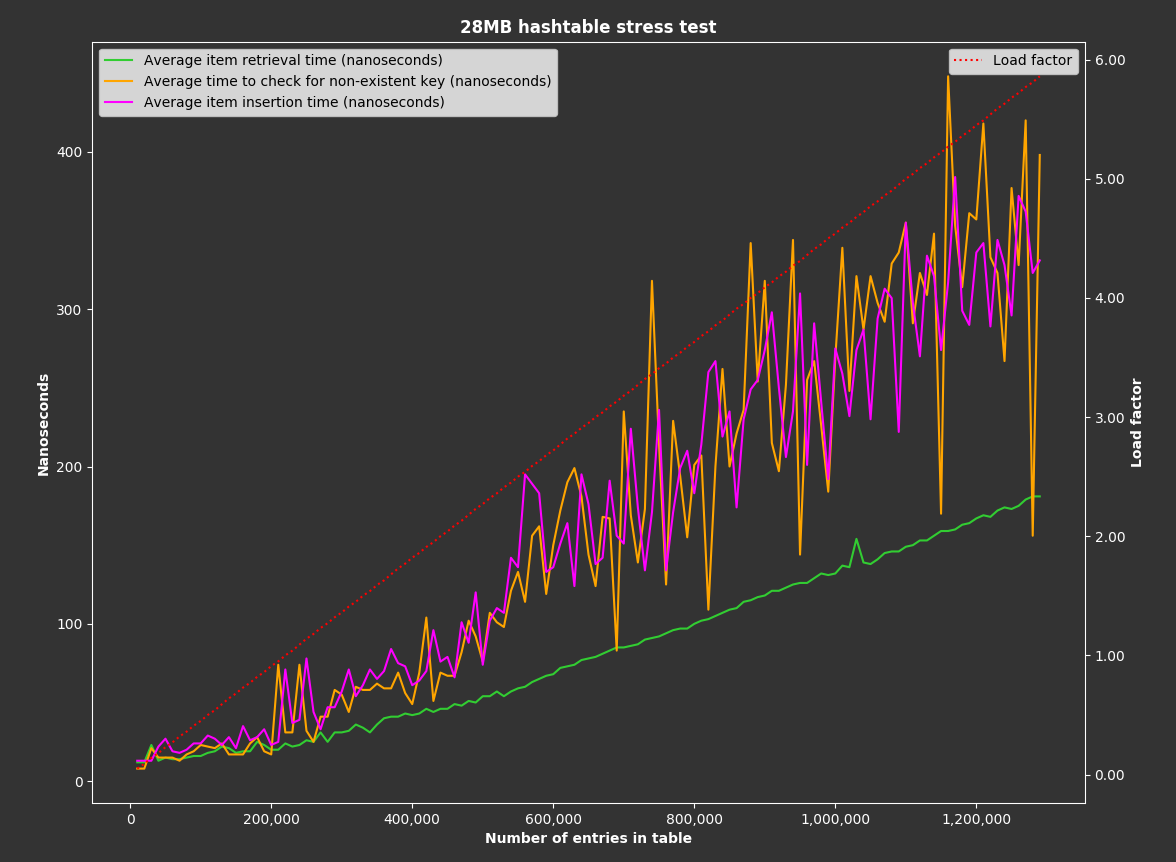
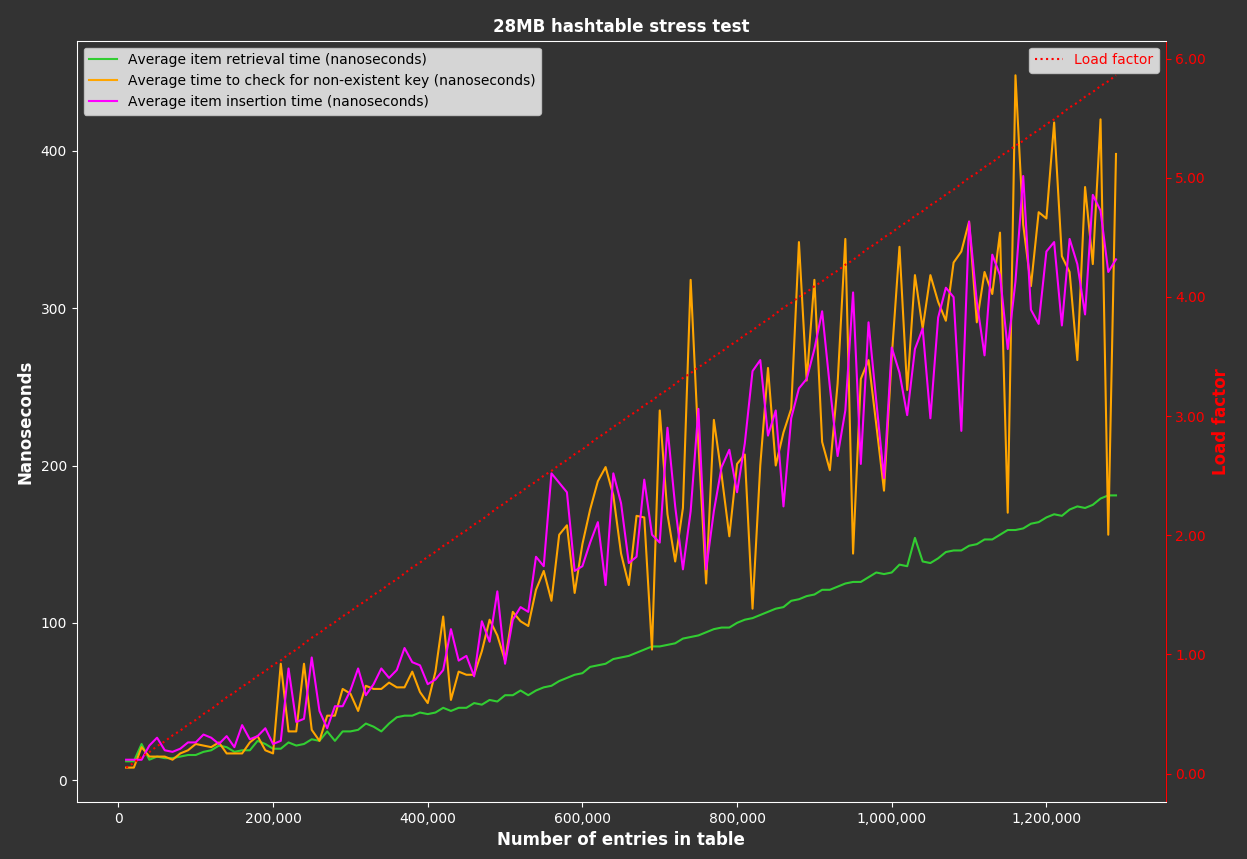
Update performance viz graph

diff --git a/perf_test/process_output.py b/perf_test/process_output.py
@@ -44,26 +44,29 @@ def main():
     ax1.get_xaxis().set_major_formatter(matplotlib.ticker.FuncFormatter(lambda x, p: format(int(x), ',')))
     ax2.get_yaxis().set_major_formatter(matplotlib.ticker.FormatStrFormatter('%.2f'))
 
-    ax1.set_xlabel("Number of entries in table", weight='bold', color='#ffffff')
-    ax1.set_ylabel("Nanoseconds", weight='bold', color='#ffffff')
-    ax2.set_ylabel("Load factor", weight='bold', color='#ffffff')
+    ax1.set_xlabel("Number of entries in table", weight='bold', color='#ffffff', fontsize=12)
+    ax1.set_ylabel("Nanoseconds", weight='bold', color='#ffffff', fontsize=12)
+    ax2.set_ylabel("Load factor", weight='bold', color='r', fontsize=12)
 
     ax2.plot(entry_counts, load_factors, color='r', linestyle='dotted', label="Load factor")
 
     ax1.plot(entry_counts, retrieve_times, color='limegreen', label="Average item retrieval time (nanoseconds)")
     ax1.plot(entry_counts, badkey_times, color='orange', label="Average time to check for non-existent key (nanoseconds)")
     ax1.plot(entry_counts, insert_times, color='magenta', label="Average item insertion time (nanoseconds)")
-    ax2.legend(bbox_to_anchor=(1,1), loc='upper right', ncol=1)
     ax1.legend(bbox_to_anchor=(0,1), loc='upper left', ncol=1)
+
+    for text in ax2.legend(bbox_to_anchor=(1,1), loc='upper right', ncol=1).get_texts():
+        text.set_color('r')
+
 
     ax2.spines['bottom'].set_color('#ffffff')
     ax2.spines['top'].set_color('#ffffff')
-    ax2.spines['right'].set_color('#ffffff')
+    ax2.spines['right'].set_color('r')
     ax2.spines['left'].set_color('#ffffff')
 
     ax1.tick_params(axis='x', colors='#ffffff')
     ax1.tick_params(axis='y', colors='#ffffff')
-    ax2.tick_params(axis='y', colors='#ffffff')
+    ax2.tick_params(axis='y', colors='r')
 
     plt.show()
 
